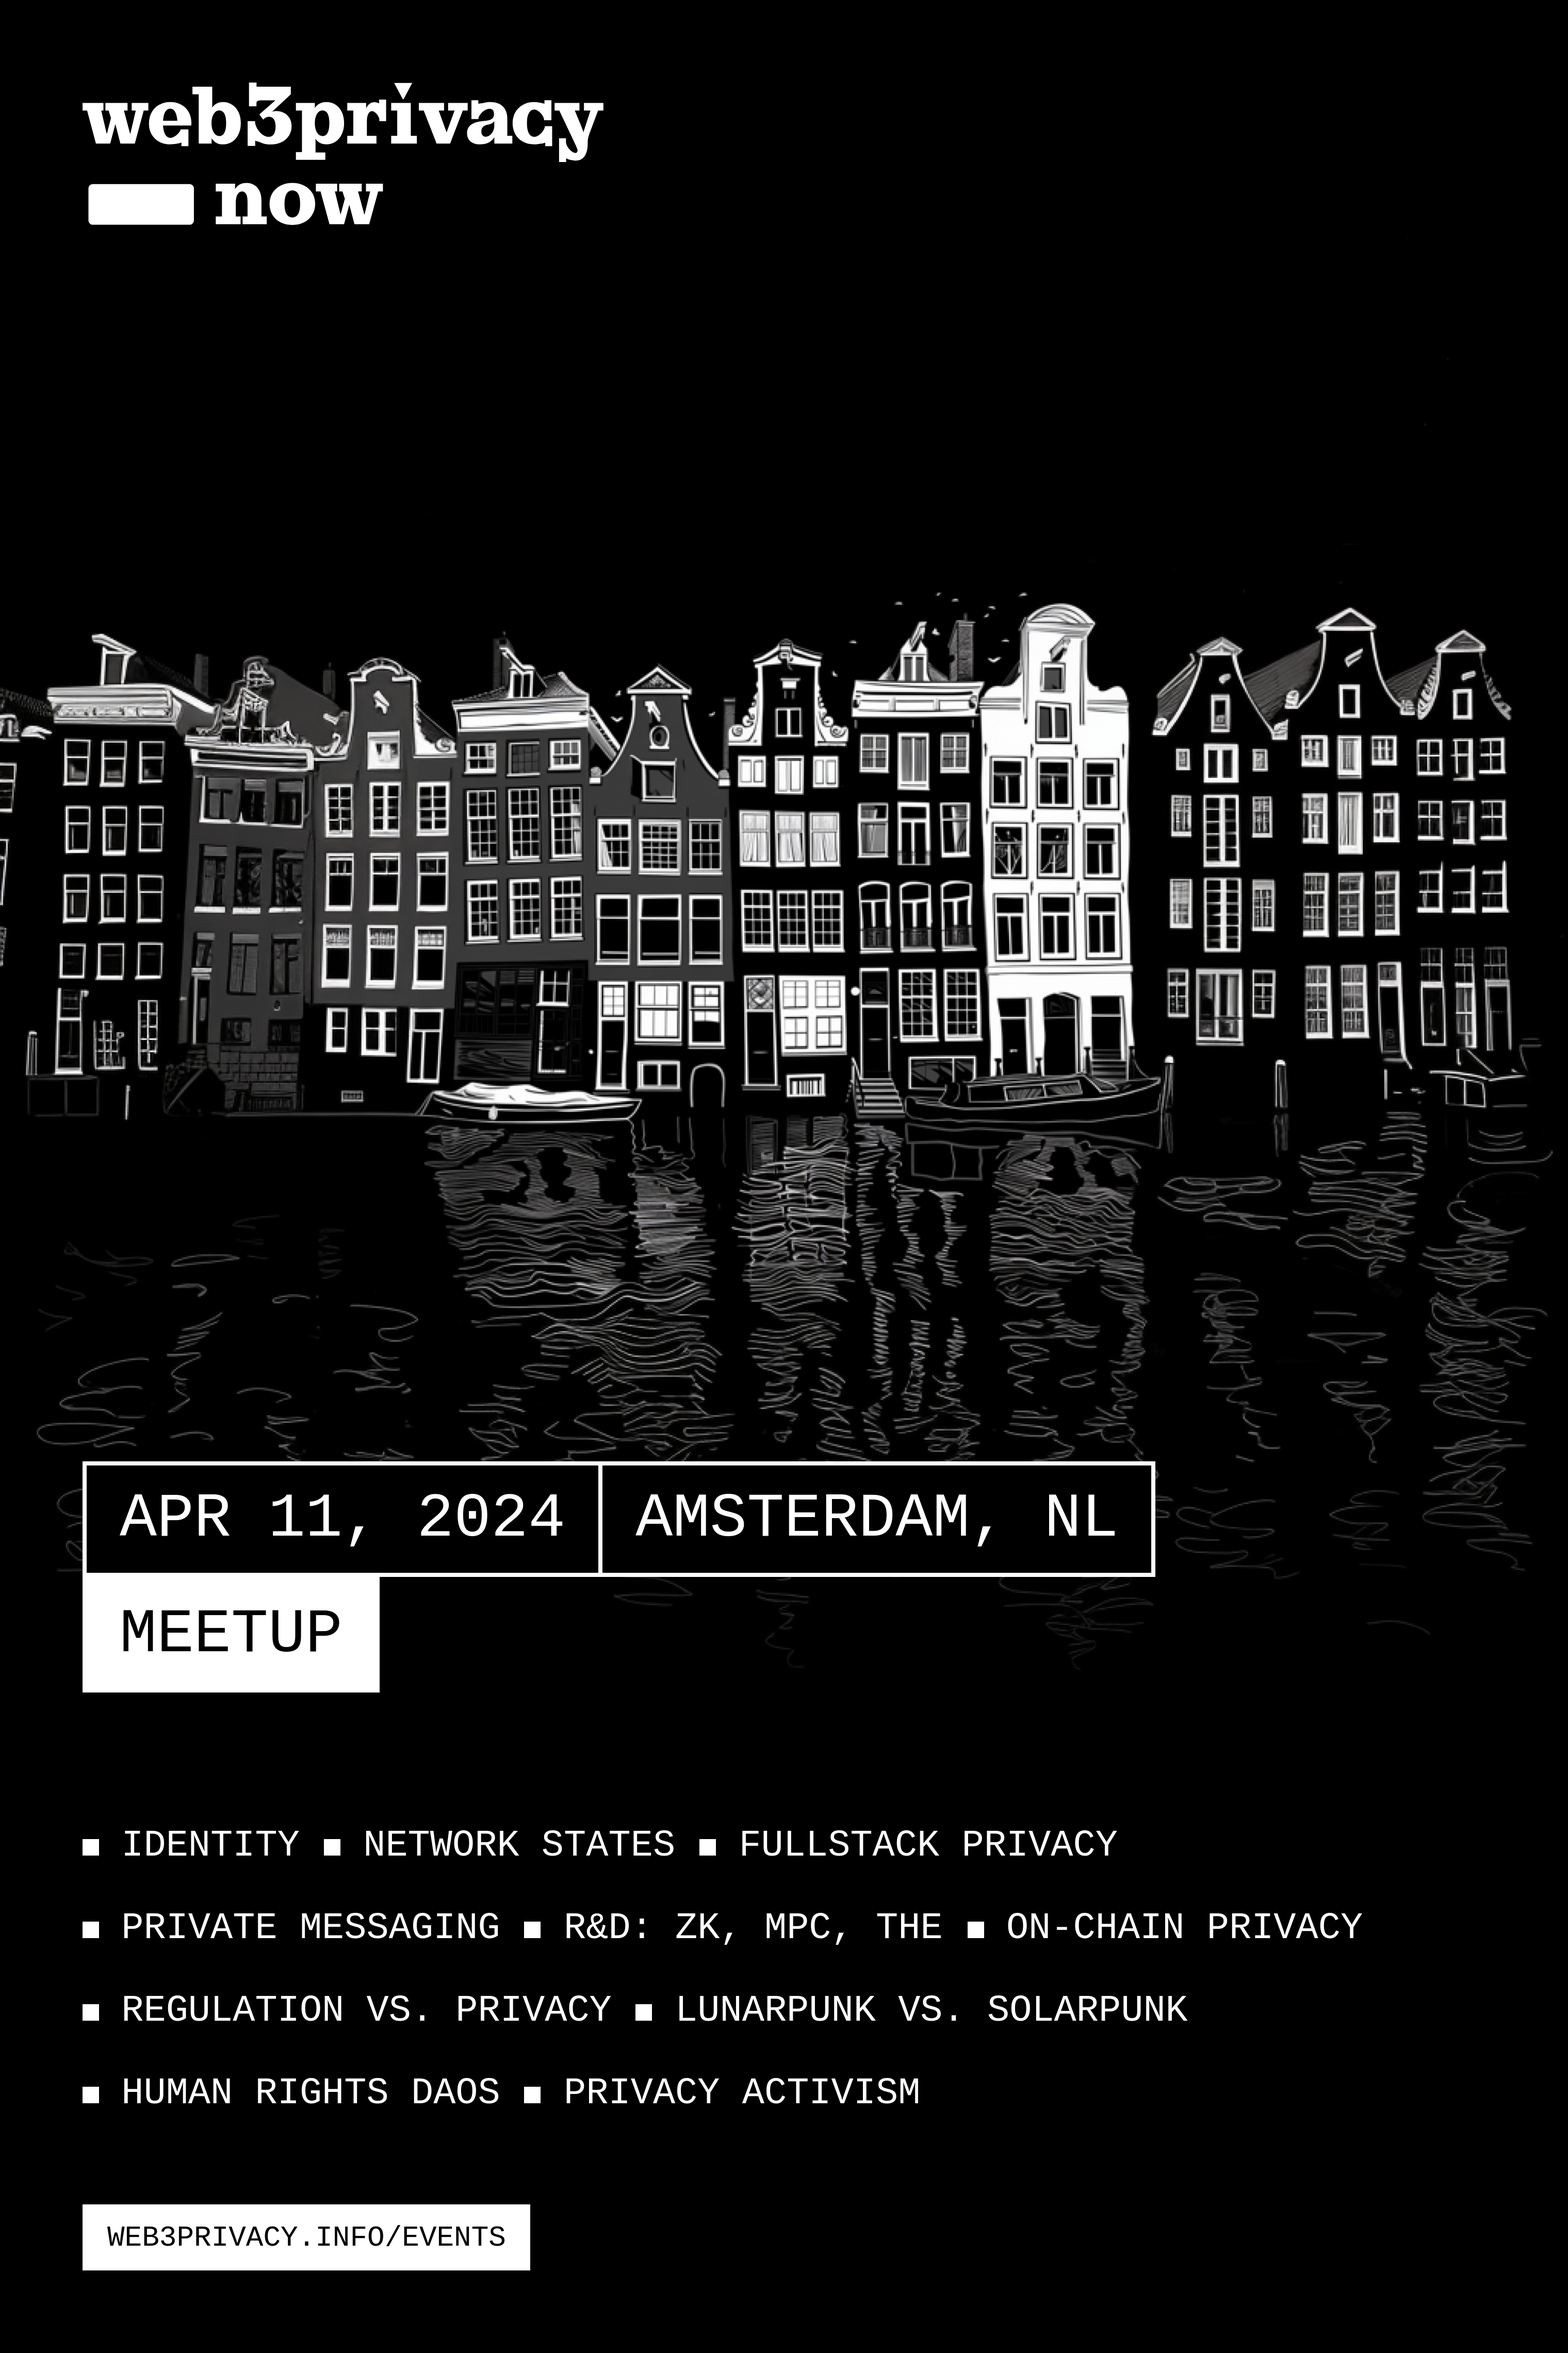
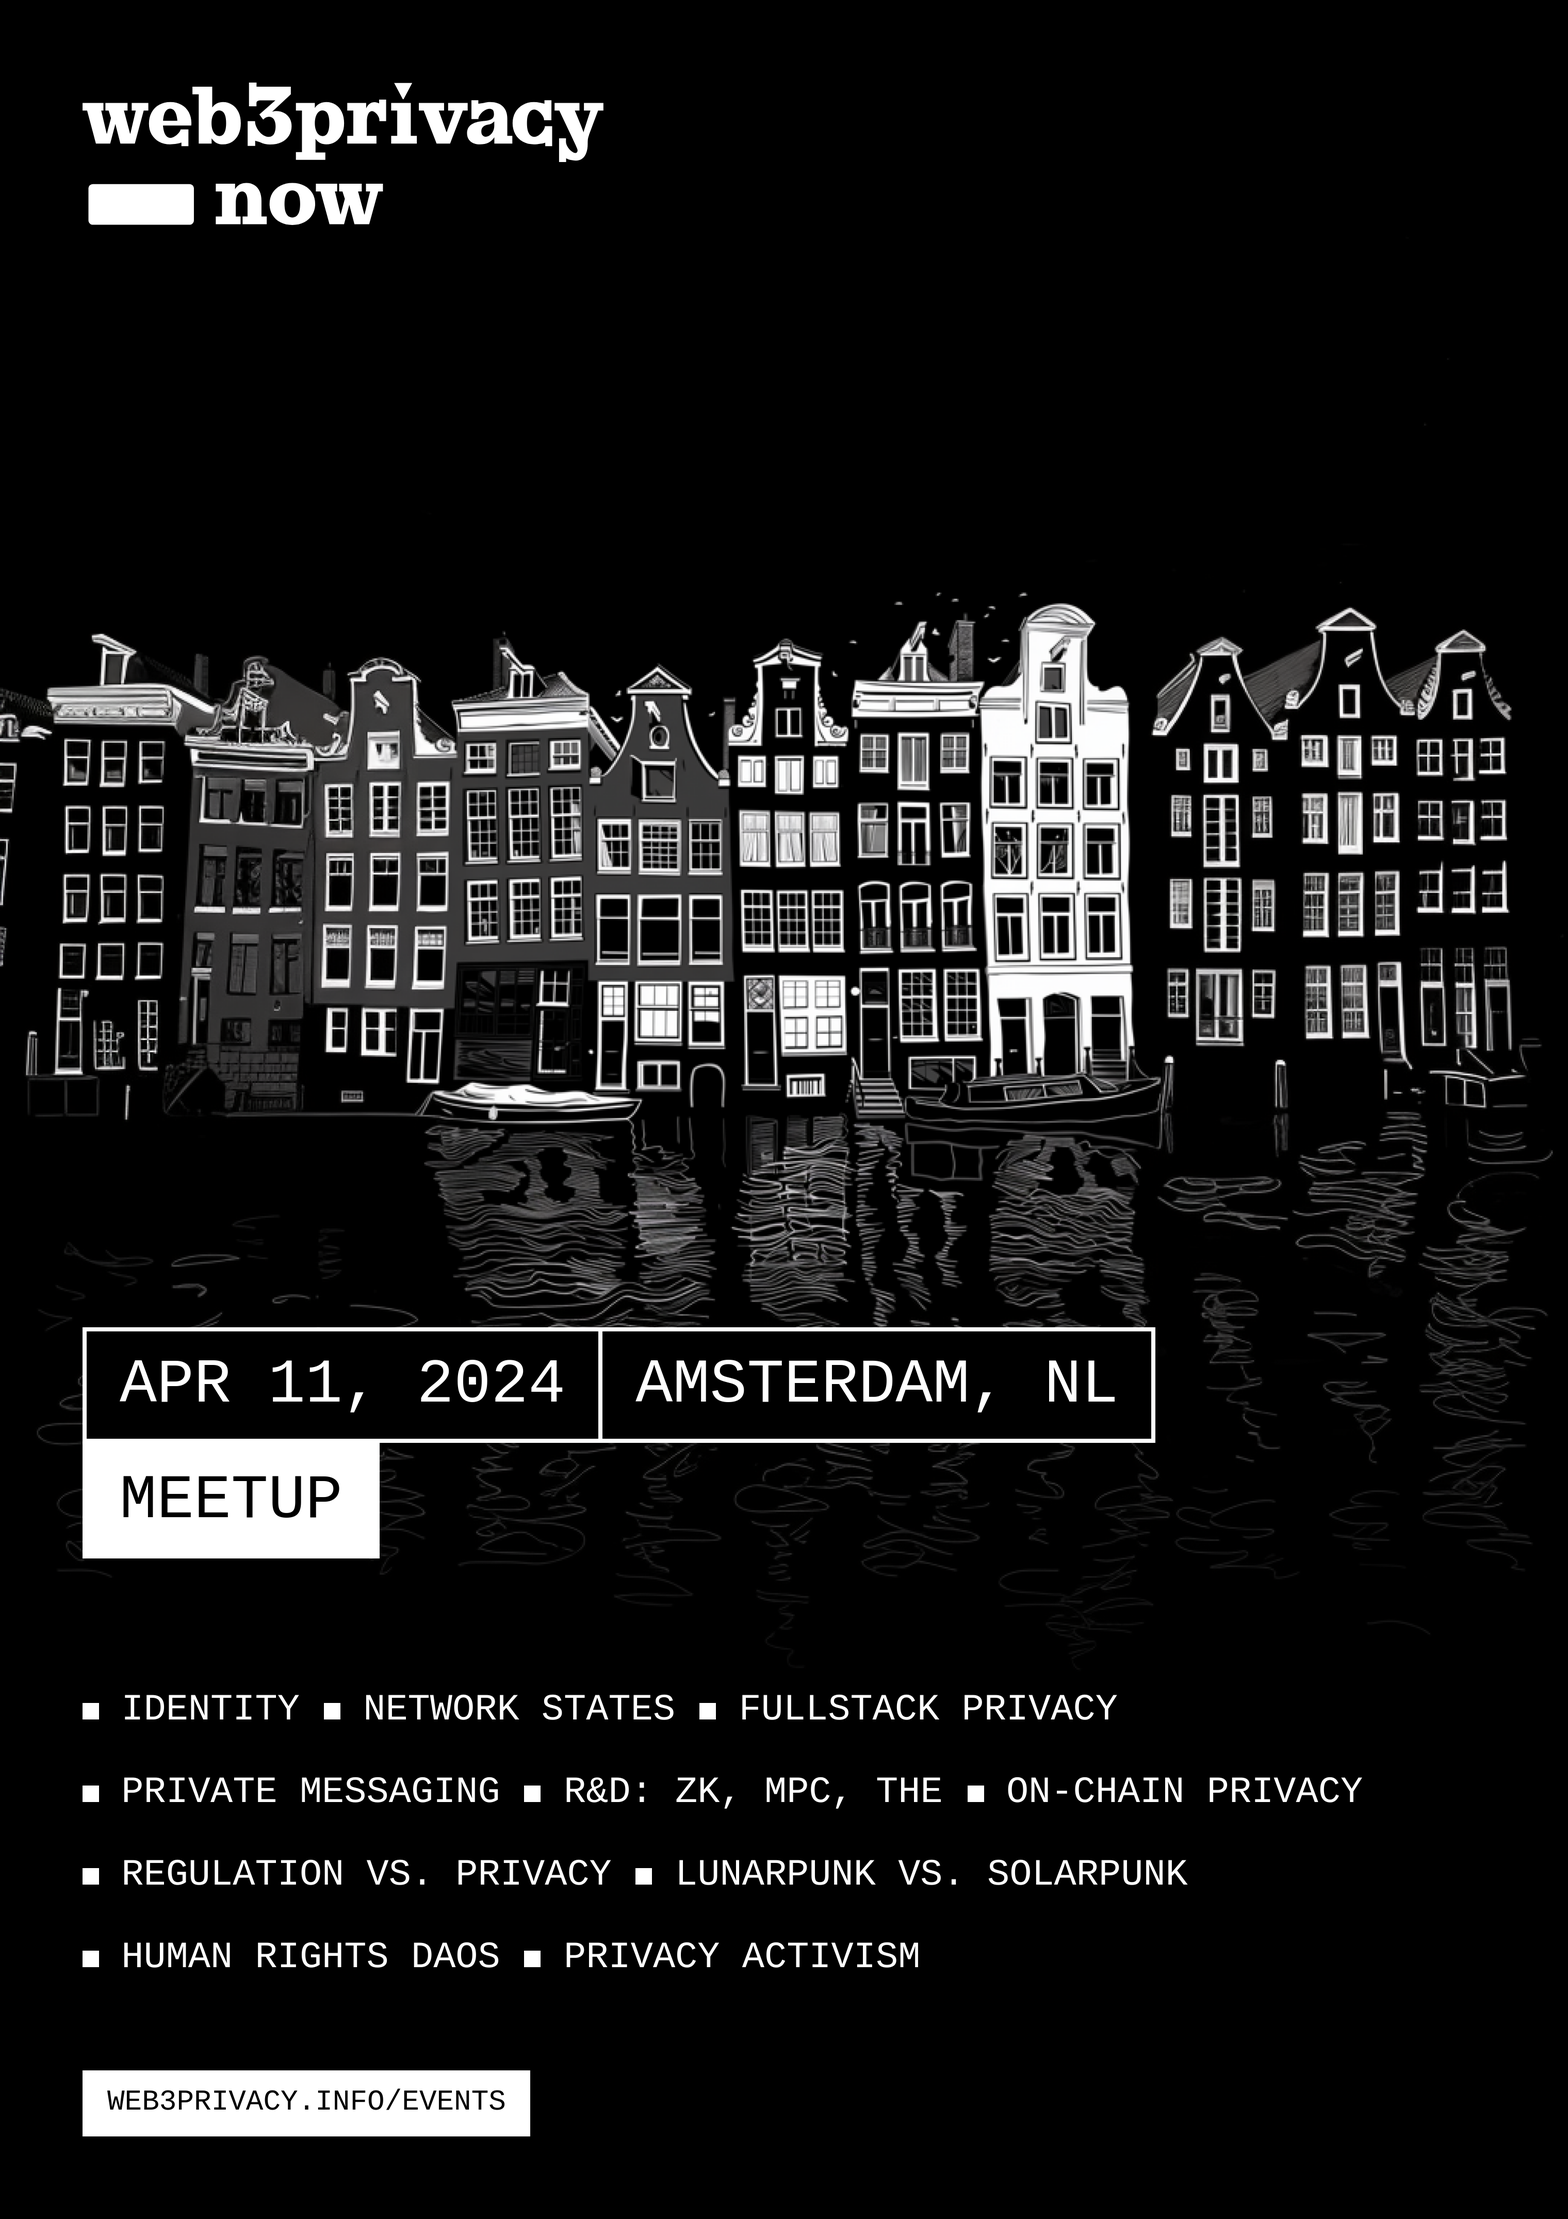
update poster aspect ratio

diff --git a/utils/images.js b/utils/images.js
@@ -5,7 +5,7 @@ import { exists } from "https://deno.land/std@0.213.0/fs/exists.ts";
 const engine = new Engine();
 await engine.init();
 
-const FORMAT = 'webp';
+const FORMAT = 'png';
 
 async function genImage (destFn, url, element) {
 
@@ -20,7 +20,7 @@ async function genImage (destFn, url, element) {
             element,
             format: FORMAT,
             scale: 4,
-            quality: 100,
+            //quality: 100,
         })
     });
 
